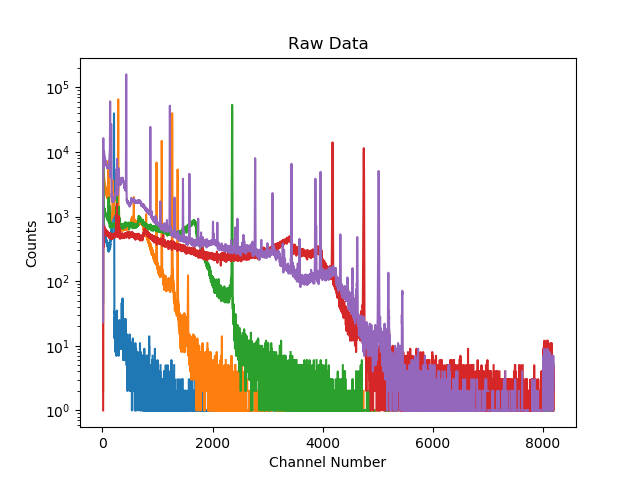
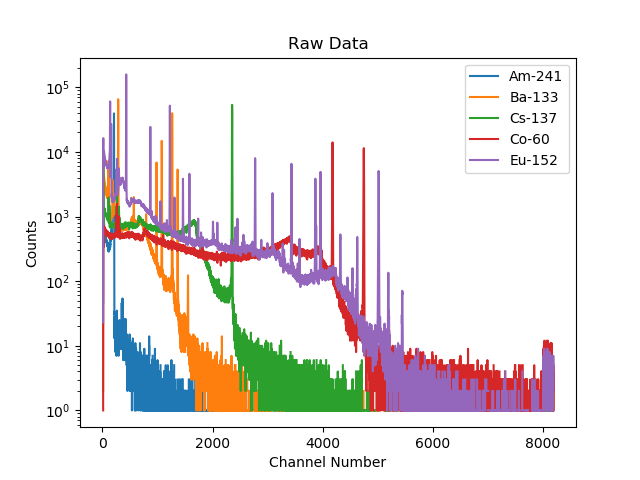
added calibrated spec for Am and Cs

Changed region(s): [[0.7188, 0.125, 0.875, 0.3438]]

diff --git a/code/data_analysis.py b/code/data_analysis.py
@@ -49,8 +49,19 @@ plt.semilogy(chan, Ba133, label='Ba-133')
 plt.semilogy(chan, Cs137, label='Cs-137')
 plt.semilogy(chan,Co60, label='Co-60')
 plt.semilogy(chan, Eu152, label='Eu-152')
+plt.legend()
 plt.title('Raw Data')
 plt.xlabel('Channel Number')
 plt.ylabel('Counts')
 plt.savefig('/Users/darrellstepter/repos/school/NE204/Lab0/dvstepter-lab0/images/Raw_Spec.png')
+plt.show()
+
+#Make calibrated data plot for Cs and Am
+plt.semilogy(energies, Am241, label='Am-241')
+plt.semilogy(energies, Cs137, label='Cs-137')
+plt.legend()
+plt.title('Calibrated Energy Plot of Am-241 and Cs-137')
+plt.xlabel('Energy (KeV)')
+plt.ylabel('Counts')
+plt.savefig('/Users/darrellstepter/repos/school/NE204/Lab0/dvstepter-lab0/images/Cal_AmCs_Spec.png')
 plt.show()
